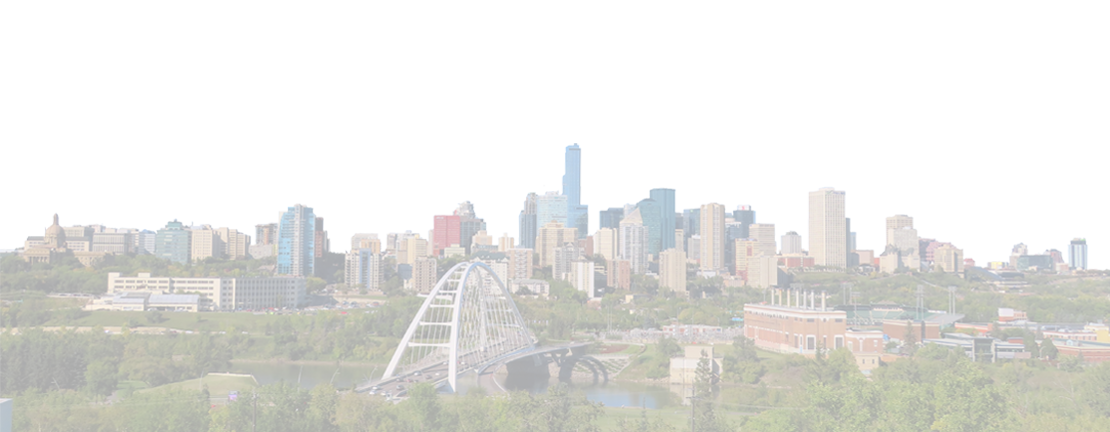
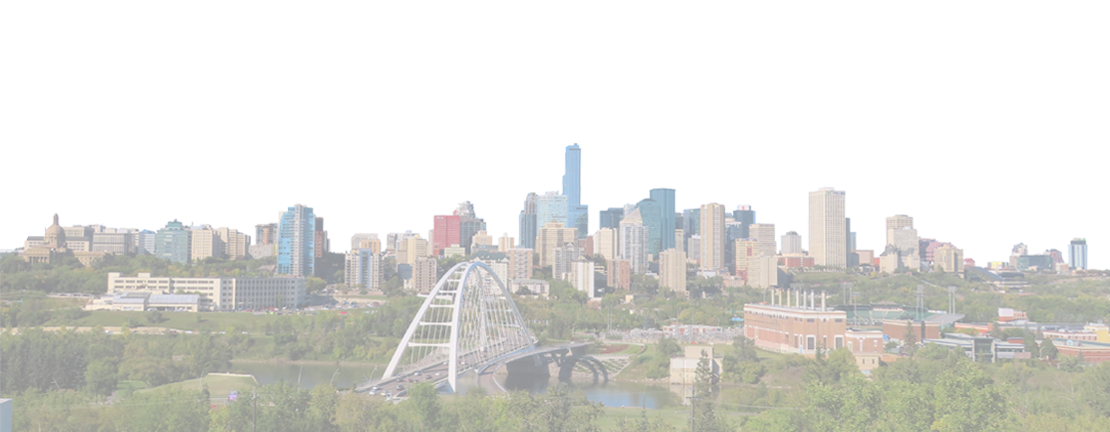
Make home page background brighter; tweak imput margin of registration page.

diff --git a/EdlinkCapstone/ClientApp/src/components/CreateStudent.css b/EdlinkCapstone/ClientApp/src/components/CreateStudent.css
@@ -4,6 +4,7 @@
     height: 680px;
     box-shadow: 0 8px 24px rgba(0,0,0,0.3), 0 8px 20px rgba(0,0,0,0.5);
 }
+
 .Title {
     margin-left: 60px;
 }
@@ -15,7 +16,7 @@
 
 .textInput {
     border-radius: 20px;
-    width: 85%;
+    width: 78%;
     margin-left: 40px;
     margin-right: 30px;
 }
@@ -38,15 +39,15 @@
     text-align: center;
     color: white !important;
     margin: 10px;
-    width: 85%;
+    width: 78%;
     margin-left: 40px;
     margin-right: 30px;
     margin-top: 30px;
 }
 
-.submitButton:hover {
-    background-color: rgb(25, 164, 172);
-}
+    .submitButton:hover {
+        background-color: rgb(25, 164, 172);
+    }
 
 /*For tablet*/
 @media screen and (min-width: 768px) {
@@ -105,7 +106,6 @@
         font-weight: bold;
         font-family: 'Gill Sans', 'Gill Sans MT', Calibri, 'Trebuchet MS', sans-serif;
         font-size: 20px;
-        width: 90%;
     }
 
     .studentDetails {
@@ -113,13 +113,17 @@
     }
 
     .submitButton {
-        width: 89%;
+        width: 87%;
     }
 }
 
 /*For desktop*/
 @media screen and (min-width: 1024px) {
     .columnCS2 {
-        margin-right: 65px;
+        margin-right: 75px;
+    }
+
+    .submitButton {
+        width: 89%;
     }
 }

diff --git a/EdlinkCapstone/ClientApp/src/components/Schools.css b/EdlinkCapstone/ClientApp/src/components/Schools.css
@@ -82,16 +82,13 @@
     }
 }
 
-/*For tablet*/
-@media (min-width: 1024px) {
-    .search-ed-pub {
-        font-size: 30px;
-    }
-}
-
 /*For desktop*/
 @media (min-width: 1200px) {
+    .search-ed-pub {
+        font-size: 27px;
+    }
+
     .searchBarInputSchools {
-        width: 48%;
+        width: 43%;
     }
 }
